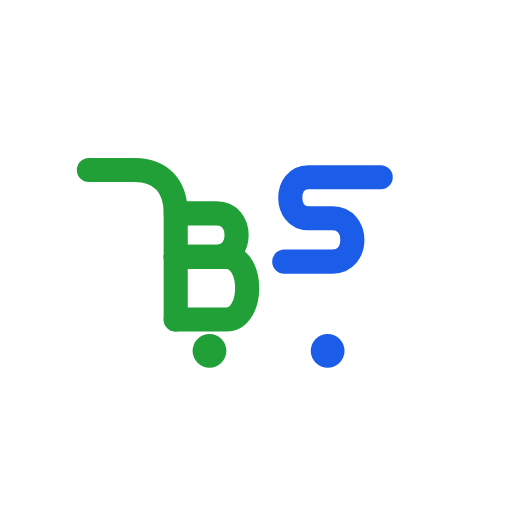
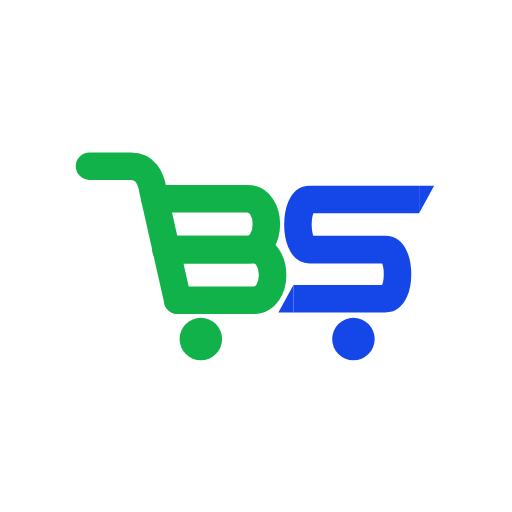
Belgini asl logoga qarab qayta chizish
Belgi asl logo bilan solishtirib qayta chizildi. Avvalgi variantda
yo'q edi:
- savat devori qiya tushadi va shu devor "B" ning tayanchi bo'ladi
  (ilgari tik chiziq edi)
- "S" ning ikkala uchi qiya kesilgan: yuqori o'ng va pastki chap
- ranglar asl logoning ranglariga keltirildi (#12B24A, #1546E8)

Qulflar, ikonkalar va ilova ichidagi komponent shu bitta belgidan
qayta yig'ildi.

Changed region(s): [[0.1562, 0.3125, 0.8438, 0.7188], [0.1562, 0.2812, 0.2812, 0.3125], [0.125, 0.3125, 0.1562, 0.3438]]

diff --git a/admin/src/brand.tsx b/admin/src/brand.tsx
@@ -6,32 +6,33 @@
 
 /** Brend belgisi. mono — bitta rangda (currentColor). */
 export function Logo({ size = 32, mono }: { size?: number; mono?: boolean }) {
-  const green = mono ? 'currentColor' : '#21A038';
-  const blue = mono ? 'currentColor' : '#1B5CE8';
+  const green = mono ? 'currentColor' : '#12B24A';
+  const blue = mono ? 'currentColor' : '#1546E8';
   return (
     <svg
       width={size}
-      height={(size * 210) / 306}
-      viewBox="0 0 306 210"
+      height={(size * 690) / 1180}
+      viewBox="40 275 1180 690"
       role="img"
       aria-label="BuySale"
     >
-      {/* VAQTINCHALIK: asl fayl kelguncha turadi (brand/README.md ga qarang).
-      Yashil: savat dastasi, u to'g'ridan-to'g'ri "B" ga aylanadi.
-      Ko'k: "S" — uning yuqori chizig'i o'ngga cho'zilib savatning
-      yuqori chekkasi bo'lib qoladi, alohida chiziq yo'q. */}
-      <g fill="none" strokeWidth="20" strokeLinecap="round" strokeLinejoin="round">
-      <g stroke={green}>
-      <path d="M14 34 H52 C74 34 86 48 86 70 V158"/>
-      <path d="M86 70 H120 C142 70 142 106 120 106 H86"/>
-      <path d="M86 106 H128 C151 106 151 158 128 158 H86"/>
+      {/* Yashil: savat dastasi va qiya tushgan devori, u "B" ga aylanadi.
+      Ko'k: "S" — yuqori chizig'i o'ngga cho'zilgan, ikkala uchi qiya
+      kesilgan (yuqori o'ng va pastki chap). */}
+      <g fill="none" strokeWidth="88" strokeLinejoin="round">
+      <g stroke={green} strokeLinecap="round">
+      <path d="M96 333 H228 C272 333 292 366 300 416 L378 762"/>
+      <path d="M305 437 H600 C682 437 682 600 600 600 H341"/>
+      <path d="M341 600 H620 C702 600 702 762 620 762 H378"/>
       </g>
-      <g stroke={blue}>
-      <path d="M256 40 H196 C176 40 176 74 196 74 H216 C238 74 238 110 216 110 H176"/>
+      <g stroke={blue} strokeLinecap="butt">
+      <path d="M1150 440 H800 C750 440 750 600 800 600 H1042 C1094 600 1094 757 1042 757 H748"/>
       </g>
       </g>
-      <circle cx="114" cy="184" r="14" fill={green}/>
-      <circle cx="212" cy="184" r="14" fill={blue}/>
+      <path d="M1150 396 H1198 L1150 484 Z" fill={blue}/>
+      <path d="M748 713 V801 L700 801 Z" fill={blue}/>
+      <circle cx="452" cy="886" r="68" fill={green}/>
+      <circle cx="940" cy="886" r="68" fill={blue}/>
     </svg>
   );
 }

diff --git a/miniapp/src/brand.tsx b/miniapp/src/brand.tsx
@@ -6,32 +6,33 @@
 
 /** Brend belgisi. mono — bitta rangda (currentColor). */
 export function Logo({ size = 32, mono }: { size?: number; mono?: boolean }) {
-  const green = mono ? 'currentColor' : '#21A038';
-  const blue = mono ? 'currentColor' : '#1B5CE8';
+  const green = mono ? 'currentColor' : '#12B24A';
+  const blue = mono ? 'currentColor' : '#1546E8';
   return (
     <svg
       width={size}
-      height={(size * 210) / 306}
-      viewBox="0 0 306 210"
+      height={(size * 690) / 1180}
+      viewBox="40 275 1180 690"
       role="img"
       aria-label="BuySale"
     >
-      {/* VAQTINCHALIK: asl fayl kelguncha turadi (brand/README.md ga qarang).
-      Yashil: savat dastasi, u to'g'ridan-to'g'ri "B" ga aylanadi.
-      Ko'k: "S" — uning yuqori chizig'i o'ngga cho'zilib savatning
-      yuqori chekkasi bo'lib qoladi, alohida chiziq yo'q. */}
-      <g fill="none" strokeWidth="20" strokeLinecap="round" strokeLinejoin="round">
-      <g stroke={green}>
-      <path d="M14 34 H52 C74 34 86 48 86 70 V158"/>
-      <path d="M86 70 H120 C142 70 142 106 120 106 H86"/>
-      <path d="M86 106 H128 C151 106 151 158 128 158 H86"/>
+      {/* Yashil: savat dastasi va qiya tushgan devori, u "B" ga aylanadi.
+      Ko'k: "S" — yuqori chizig'i o'ngga cho'zilgan, ikkala uchi qiya
+      kesilgan (yuqori o'ng va pastki chap). */}
+      <g fill="none" strokeWidth="88" strokeLinejoin="round">
+      <g stroke={green} strokeLinecap="round">
+      <path d="M96 333 H228 C272 333 292 366 300 416 L378 762"/>
+      <path d="M305 437 H600 C682 437 682 600 600 600 H341"/>
+      <path d="M341 600 H620 C702 600 702 762 620 762 H378"/>
       </g>
-      <g stroke={blue}>
-      <path d="M256 40 H196 C176 40 176 74 196 74 H216 C238 74 238 110 216 110 H176"/>
+      <g stroke={blue} strokeLinecap="butt">
+      <path d="M1150 440 H800 C750 440 750 600 800 600 H1042 C1094 600 1094 757 1042 757 H748"/>
       </g>
       </g>
-      <circle cx="114" cy="184" r="14" fill={green}/>
-      <circle cx="212" cy="184" r="14" fill={blue}/>
+      <path d="M1150 396 H1198 L1150 484 Z" fill={blue}/>
+      <path d="M748 713 V801 L700 801 Z" fill={blue}/>
+      <circle cx="452" cy="886" r="68" fill={green}/>
+      <circle cx="940" cy="886" r="68" fill={blue}/>
     </svg>
   );
 }

diff --git a/miniapp/src/styles.css b/miniapp/src/styles.css
@@ -1886,4 +1886,4 @@ button.link { background: none; color: var(--accent); font-size: 15px; font-weig
 /* ── Brend nomi: "Buy" to'q, "Sale" ko'k ── */
 .wordmark { font-weight: 800; letter-spacing: -0.5px; white-space: nowrap; }
 .wordmark b { font-weight: 800; color: #0E1B33; }
-.wordmark i { font-style: normal; font-weight: 800; color: #1B5CE8; }
+.wordmark i { font-style: normal; font-weight: 800; color: #1546E8; }

diff --git a/admin/src/styles.css b/admin/src/styles.css
@@ -439,4 +439,4 @@ tr.picked { background: rgba(0, 122, 255, 0.06); }
 /* ── Brend nomi: "Buy" to'q, "Sale" ko'k ── */
 .wordmark { font-weight: 800; letter-spacing: -0.5px; white-space: nowrap; }
 .wordmark b { font-weight: 800; color: #0E1B33; }
-.wordmark i { font-style: normal; font-weight: 800; color: #1B5CE8; }
+.wordmark i { font-style: normal; font-weight: 800; color: #1546E8; }
